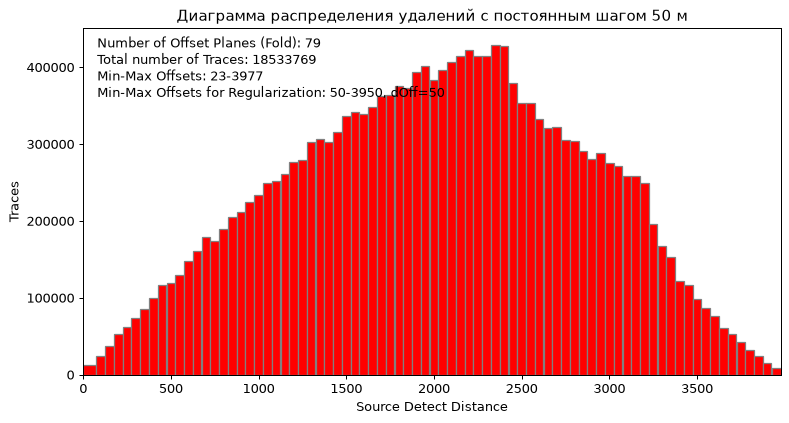
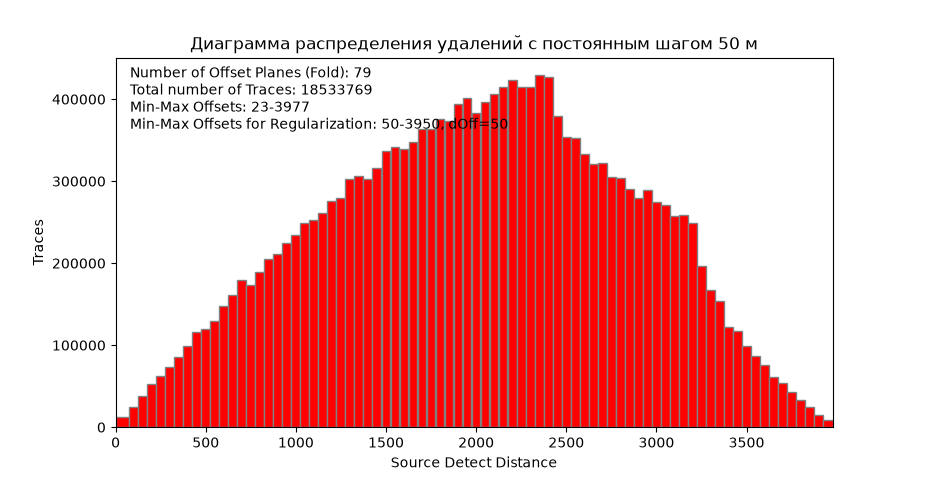
histogram_for_reg: окно программы наверху, диаграммы в своих разделах
Сначала человек должен увидеть саму программу, а диаграмма ступенчатого шага
относится к разделу про него. Скриншоты обновлены.

diff --git a/docs/histogram_for_reg.md b/docs/histogram_for_reg.md
@@ -4,7 +4,7 @@
 данных. Программа разбивает удаления на классы, показывает диаграмму и пишет
 рядом со входным файлом таблицу классов, которую можно отдать в регуляризацию.
 
-![Ступенчатый шаг на примере synth_offsets_1.txt](img/histogram_step.png)
+![Окно histogram_for_reg](img/histogram.png)
 
 ## Скачать
 
@@ -45,6 +45,8 @@
 Трасс в классах около целевого числа, как у классов равной населенности, но
 классы внутри зоны регулярные - и артефактов миграции Кирхгофа меньше, чем когда
 ширина своя у каждого класса.
+
+![Ступенчатый шаг](img/histogram_step.png)
 
 - **Количество классов удалений** - сколько классов будет на диаграмме. Классов
   выходит ровно столько, если позволяют остальные параметры; иначе программа
